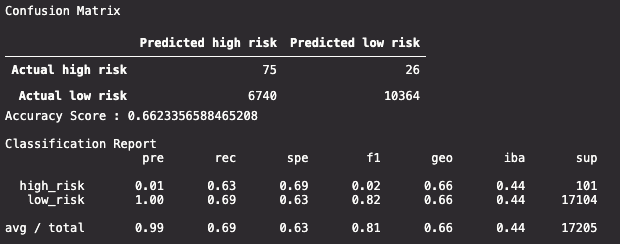
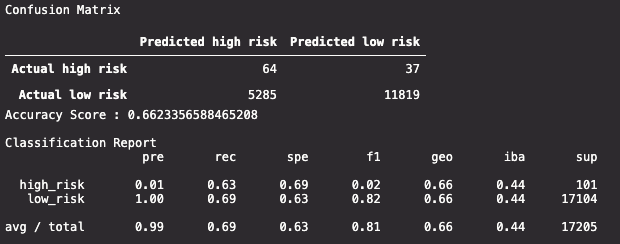
Updating README

diff --git a/README.md b/README.md
@@ -1,33 +1,63 @@
-# Credit_Risk_Analysis
-Employing different Machine Learning techniques to evaluate credit card risk.
+# Credit Risk Analysis
 
 ## Overview of Project
+
 ### Purpose
+
+Our objective is to employ different Machine Learning techniques to evaluate credit card risk, while focusing on the unbalanced nature of good loans far outnumbering risky loans.
+
 ### Resources
+- Data: [2019 Q1 Loan Stats](Module-17-Challenge-Resources/LoanStats_2019Q1.csv)
+- Software: Python, pandas, numpy, skikit-learn, imbalanced-learn, VS Code
 
 ## Project Results
-Using bulleted lists, describe the balanced accuracy scores and the precision and recall scores of all six machine learning models. Use screenshots of your outputs to support your results.
 
 ### Over Sampling
 #### RandomOverSampler
-[screenshot of confusion matrix]
- - bulleted list explaining accuracy scores, precision, and recall
-   - An accuracy score for the model is calculated (7.5 pt), 
-   - A confusion matrix has been generated (7.5 pt),  
-   - An imbalanced classification report has been generated (15 pt)
+<img src='Module-17-Challenge-Resources/images/random_over_sample_report.png'>
+
+- <strong>Accuracy score:</strong> 0.6742
+- <strong>True positives:</strong> 75, <strong>false postives:</strong> 6740, <strong>false negatives:</strong> 26, <strong>true negatives:</strong> 10364
+- <strong>Precision:</strong> 0.99, <strong>recall:</strong> 0.61, <strong>f1 score:</strong> 0.75
+
 #### SMOTE
+<img src='Module-17-Challenge-Resources/images/smote_report.png'>
+
+- <strong>Accuracy score:</strong> 0.6623
+- <strong>True positives:</strong> 64, <strong>false postives:</strong> 5285, <strong>false negatives:</strong> 37, <strong>true negatives:</strong> 11819
+- <strong>Precision:</strong> 0.99, <strong>recall:</strong> 0.69, <strong>f1 score:</strong> 0.81
 
 ### Under Sampling
 #### ClusterCentroids
+<img src='Module-17-Challenge-Resources/images/cluster_centroid_report.png'>
+
+- <strong>Accuracy score:</strong> 0.5443
+- <strong>True positives:</strong> 70, <strong>false postives:</strong> 10340, <strong>false negatives:</strong> 31, <strong>true negatives:</strong> 6764
+- <strong>Precision:</strong> 0.99, <strong>recall:</strong> 0.40, <strong>f1 score:</strong> 0.56
 
 ### Combinatorial Sampling
 #### SMOTEENN
+<img src='Module-17-Challenge-Resources/images/smoteenn_report.png'>
+
+- <strong>Accuracy score:</strong> 0.6434
+- <strong>True positives:</strong> 72, <strong>false postives:</strong> 7288, <strong>false negatives:</strong> 29, <strong>true negatives:</strong> 9816
+- <strong>Precision:</strong> 0.99, <strong>recall:</strong> 0.57, <strong>f1 score:</strong> 0.72
 
 ### Ensemble Classifiers
 #### BalancedRandomForestClassifier
+<img src='Module-17-Challenge-Resources/images/random_forest_report.png'>
+
+- <strong>Accuracy score:</strong> 0.7475
+- <strong>True positives:</strong> 152, <strong>false postives:</strong> 6315, <strong>false negatives:</strong> 94, <strong>true negatives:</strong> 45051
+- <strong>Precision:</strong> 0.99, <strong>recall:</strong> 0.88, <strong>f1 score:</strong> 0.93
+
 #### EasyEnsembleClassifier
+<img src='Module-17-Challenge-Resources/images/easy_ensemble_report.png'>
+
+- <strong>Accuracy score:</strong> 0.8229
+- <strong>True positives:</strong> 186, <strong>false postives:</strong> 5662, <strong>false negatives:</strong> 60, <strong>true negatives:</strong> 45704
+- <strong>Precision:</strong> 0.99, <strong>recall:</strong> 0.61, <strong>f1 score:</strong> 0.75
 
 ## Summary
 ### Conclusion
 Summarize the results of the machine learning models, and include a recommendation on the model to use, if any. If you do not recommend any of the models, justify your reasoning
-### Next Steps (if any)
